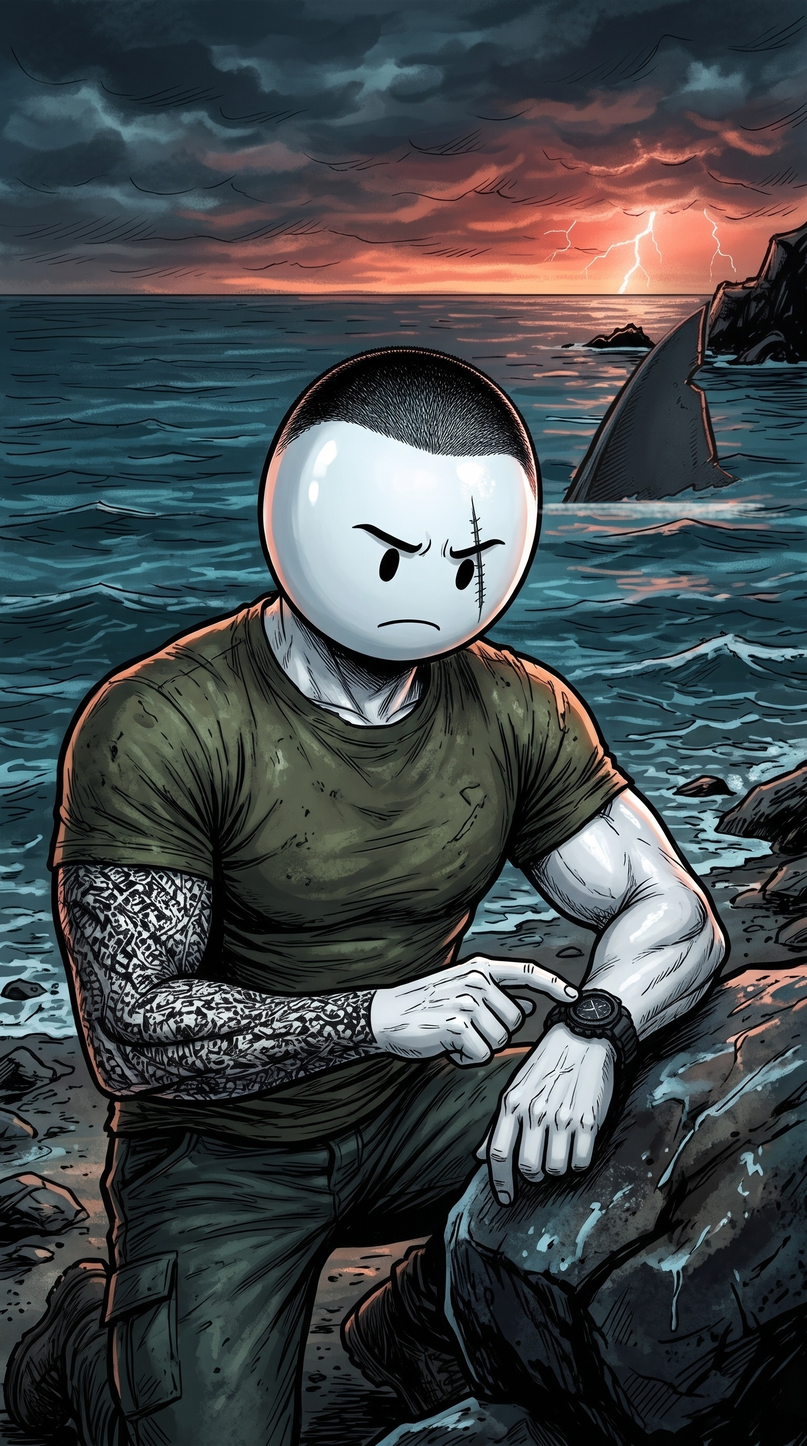
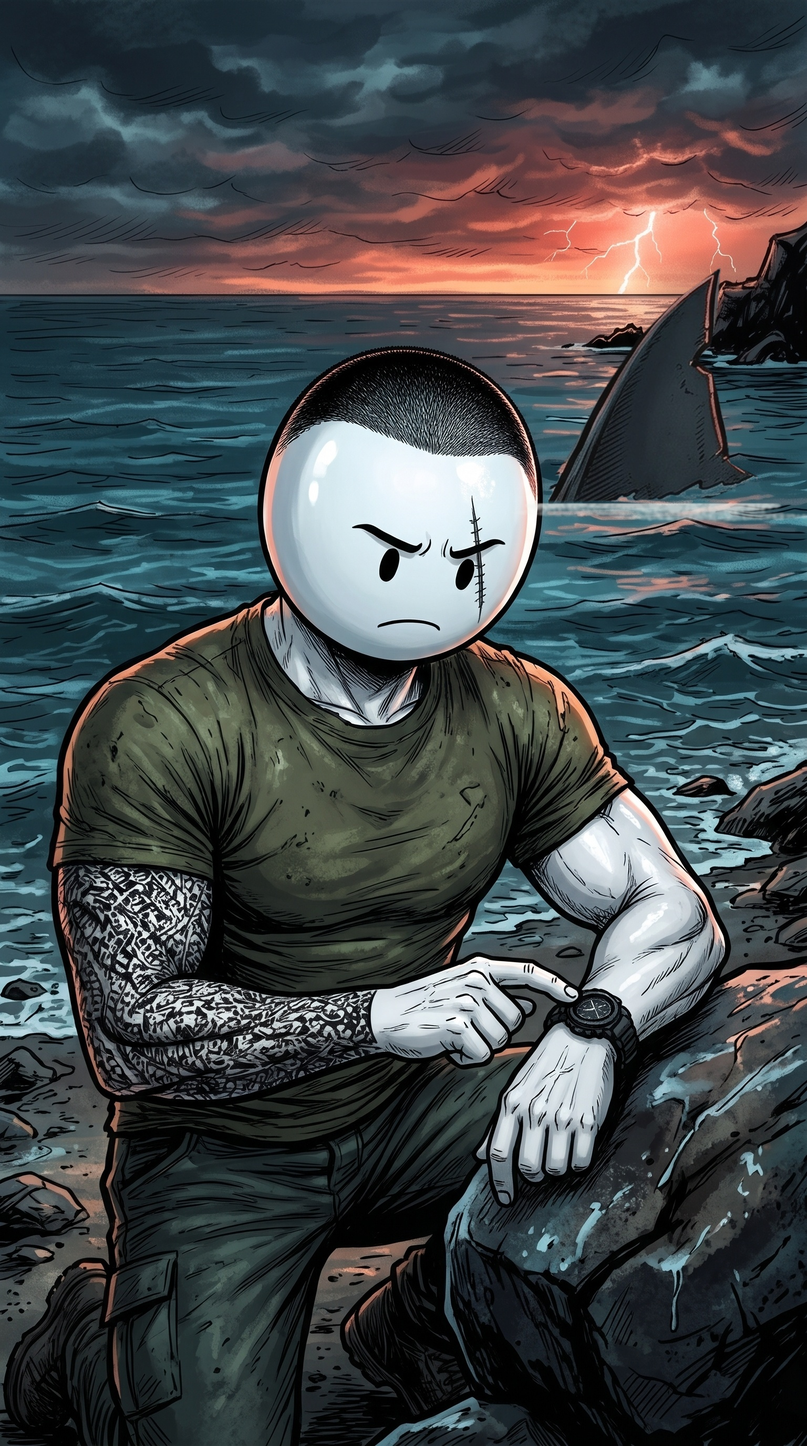
ADA 9: yüzgeçler büyütüldü, 15'teki düz köpük şeridi kaldırıldı
Claude-Session: https://claude.ai/code/session_014JxJGGMAcsX945kBrKhihb

Changed region(s): [[0.6875, 0.1875, 0.9688, 0.375], [0.6562, 0.3438, 0.6875, 0.375]]

diff --git a/hikaye-video/projeler/ada9/yuzgec-08.py b/hikaye-video/projeler/ada9/yuzgec-08.py
@@ -6,10 +6,10 @@ G = os.path.join(os.path.dirname(__file__), '..', '..', 'gorseller', 'ada9')
 POLY = [(852, 944), (848, 1000), (840, 1040), (822, 1058), (842, 1072), (858, 1140), (864, 1186), (902, 1204), (840, 1228),
         (700, 1232), (640, 1236), (642, 1210), (668, 1170), (705, 1100), (752, 1030), (800, 982)]
 CFG = {  # boy: yüzgeç yüksekliği, taban: suya girdiği nokta, sil: eski küçük yüzgecin kutusu, rim: kırmızı kenar şiddeti, ton: sahne rengi
-    '07': dict(boy=300, taban=(790, 640), sil=(838, 402, 905, 458), rim=0.55, ton=(60, 75, 85), kopuk=0.55),
-    '09a': dict(boy=390, taban=(1243, 960), sil=(1205, 730, 1290, 808), rim=0.5, ton=(75, 80, 85), kopuk=0.7),
-    '09b': dict(boy=470, taban=(795, 1290), sil=(690, 1045, 960, 1300), rim=0.0, ton=(70, 90, 20), kopuk=0.95),
-    '15': dict(boy=700, taban=(640, 1870), sil=None, rim=0.7, ton=(70, 80, 40), kopuk=0.5)}
+    '07': dict(boy=340, taban=(790, 640), sil=(838, 402, 905, 458), rim=0.55, ton=(60, 75, 85), kopuk=0.55),
+    '09a': dict(boy=450, taban=(1243, 960), sil=(1205, 730, 1290, 808), rim=0.5, ton=(75, 80, 85), kopuk=0.7),
+    '09b': dict(boy=540, taban=(795, 1290), sil=(690, 1045, 960, 1300), rim=0.0, ton=(70, 90, 20), kopuk=0.95),
+    '15': dict(boy=700, taban=(640, 1850), sil=None, rim=0.7, ton=(70, 80, 40), kopuk=0.0)}
 
 
 def sprite():
